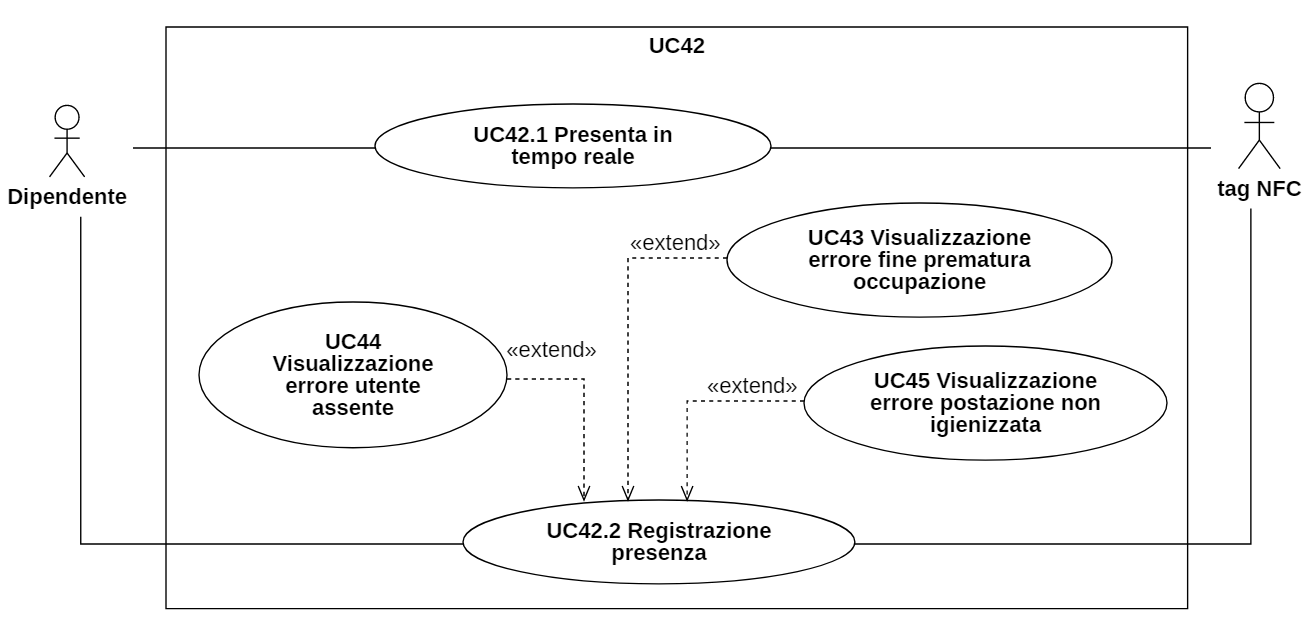
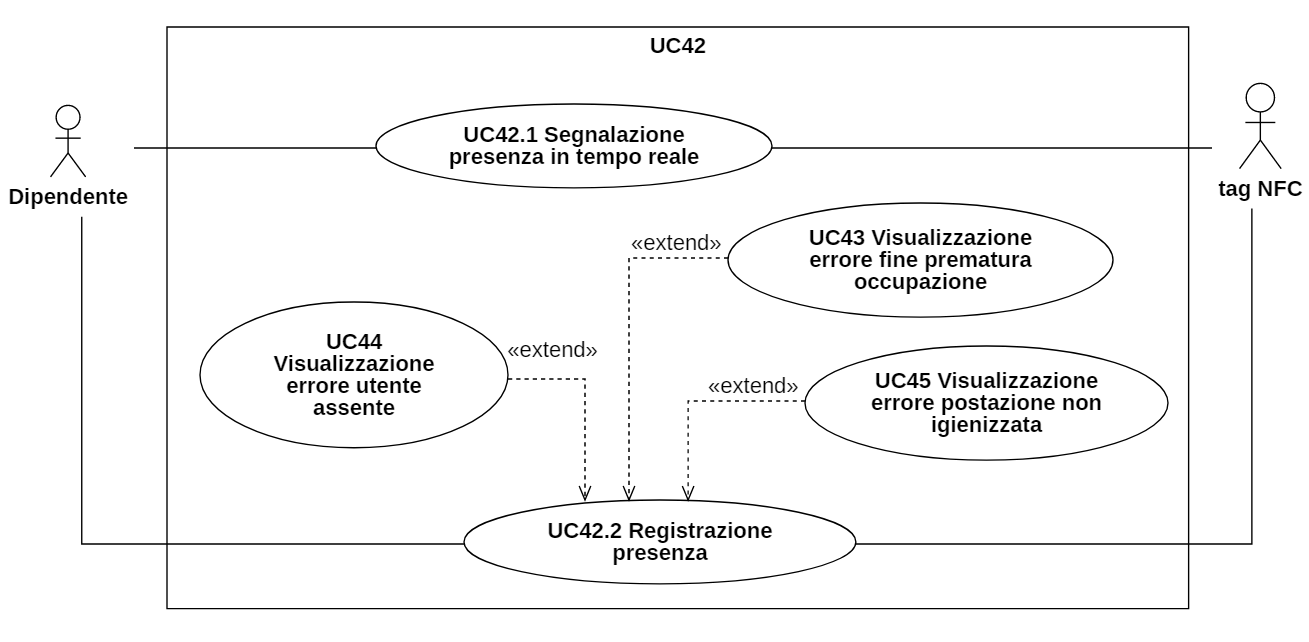
correzioni

diff --git a/esterni/AnalisiDeiRequisiti/res/sections/casiUso.tex b/esterni/AnalisiDeiRequisiti/res/sections/casiUso.tex
@@ -272,7 +272,7 @@ In questa sezione sono riportati tutti i casi d'uso individuati, ordinati per at
 	\item\textbf{Attori Primari:}
 	amministratore.
 	\item\textbf{Descrizione:} 
-	l'utente aggiunge una stanza al sistema. Le stanze del sistema sono sempre rettangolari e ne vanno quindi specificate due dimensioni, chiamate dimensione x e y.
+	l'utente aggiunge una stanza al sistema. Le stanze del sistema sono sempre rettangolari e ne vanno quindi specificate due dimensioni, chiamate x e y.
 	\item\textbf{Scenario principale:} 
 	\begin{enumerate}
 		\item l'utente autenticato preme un pulsante per creare una nuova stanza;
@@ -1102,7 +1102,7 @@ In questa sezione sono riportati tutti i casi d'uso individuati, ordinati per at
 	\item\textbf{Postcondizione:} l’utente segnala in tempo reale l'occupazione della postazione.
 \end{itemize}
 
-\subsubsection{ U42.1 - Presenza in tempo reale}
+\subsubsection{ UC42.1 - Segnalazione presenza in tempo reale}
 \begin{itemize}
 	\item\textbf{Attori Primari:} dipendente.
 	\item\textbf{Attori Secondari:} tag NFC.
@@ -1112,7 +1112,7 @@ In questa sezione sono riportati tutti i casi d'uso individuati, ordinati per at
 	\item\textbf{Postcondizione:} l’utente segnala in tempo reale l'occupazione alla postazione.
 \end{itemize}
 
-\subsubsection{ U42.2 - Registrazione presenza}
+\subsubsection{ UC42.2 - Registrazione presenza}
 \begin{itemize}
 	\item\textbf{Attori Primari:} dipendente.
 	\item\textbf{Attori Secondari:} tag NFC.
